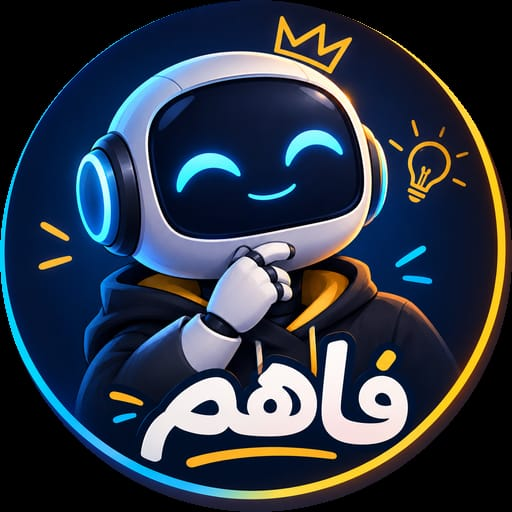
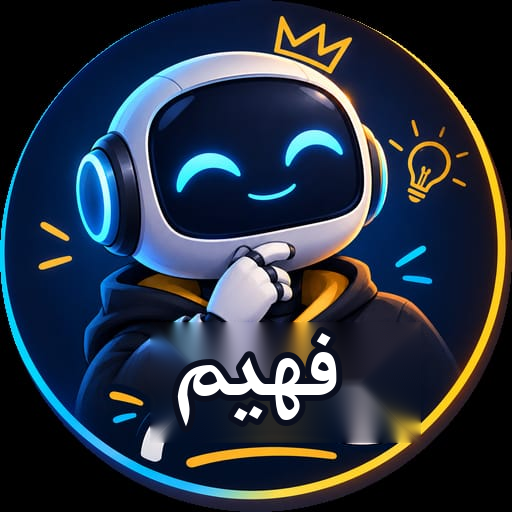
Add files via upload

Changed region(s): [[0.2812, 0.625, 0.8438, 0.875]]

diff --git a/ai.js b/ai.js
@@ -274,7 +274,7 @@ function aiNorm(s) {
 function aiNames() {
   return aiExamMode
     ? { ar: 'مساعد الدكتور', en: 'Doctor Assistant' }
-    : { ar: 'فاهم', en: 'Fahem' };
+    : { ar: 'فهيم', en: 'Faheem' };
 }
 
 function aiName() {
@@ -292,9 +292,9 @@ function aiRoomTitle(room) {
 // الترحيب: "أهلا وسهلا يا دكتور" بتظهر بس بعد تفعيل وضع الامتحان، والملحوظة بتتقال مرة واحدة في أول رسالة (من السيرفر)
 function greetingText() {
   if (aiLangMode === 'en') {
-    return "Welcome, I'm Fahem, your AI assistant 🤖\nWrite to me in English, Arabic or any language. I can explain, solve problems, search the web, and review images you send me. I also answer from the course books when they are available.";
+    return "Welcome, I'm Faheem, your AI assistant 🤖\nWrite to me in English, Arabic or any language. I can explain, solve problems, search the web, and review images you send me. I also answer from the course books when they are available.";
   }
-  return 'أهلا وسهلا معاك فاهم 🤖\nكلمني بالمصري أو بالإنجليزي أو أي لغة. أقدر أشرح وأحل وأبحث على النت، وأرد عليك من كتب المادة، ولو بعتلي صورة أقدر أحللها أو أعدّلها لك.';
+  return 'أهلا وسهلا معاك فهيم 🤖\nكلمني بالمصري أو بالإنجليزي أو أي لغة. أقدر أشرح وأحل وأبحث على النت، وأرد عليك من كتب المادة، ولو بعتلي صورة أقدر أحللها أو أعدّلها لك.';
 }
 
 // اقتراحات أسئلة جاهزة تظهر في الشات الفاضي (3 عشوائيين)

diff --git a/index.html b/index.html
@@ -94,7 +94,7 @@
         <span id="user-label" class="user-label"></span>
       </div>
       <div class="header-actions">
-        <button id="ai-open" class="ghost gear ai-head-btn" title="فاهم"></button>
+        <button id="ai-open" class="ghost gear ai-head-btn" title="فهيم"></button>
         <button id="members-btn" class="ghost gear" title="👥">👥</button>
         <button id="settings-btn" class="ghost gear" title="⚙">⚙</button>
       </div>
@@ -267,8 +267,8 @@
       </button>
       <div class="ai-avatar"></div>
       <div class="ai-title">
-        <b id="ai-name-ar">فاهم</b>
-        <span id="ai-name-en" class="ai-en">Fahem</span>
+        <b id="ai-name-ar">فهيم</b>
+        <span id="ai-name-en" class="ai-en">Faheem</span>
         <small id="ai-room-label"></small>
       </div>
       <div class="ai-tools">
@@ -305,7 +305,7 @@
   </script>
   <script src="https://cdn.jsdelivr.net/npm/@supabase/supabase-js@2"></script>
   <script src="app.js?v=12"></script>
-  <script src="ai.js?v=11"></script>
+  <script src="ai.js?v=12"></script>
   <script src="gate.js?v=2"></script>
   <script src="ai-warn.js?v=3"></script>
   <script src="prefs.js?v=2"></script>
